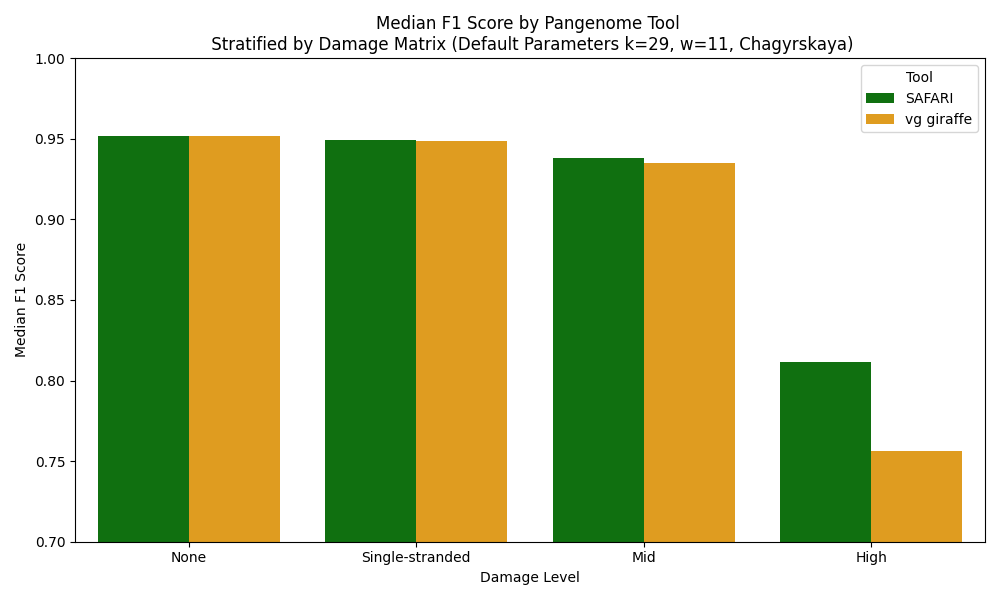
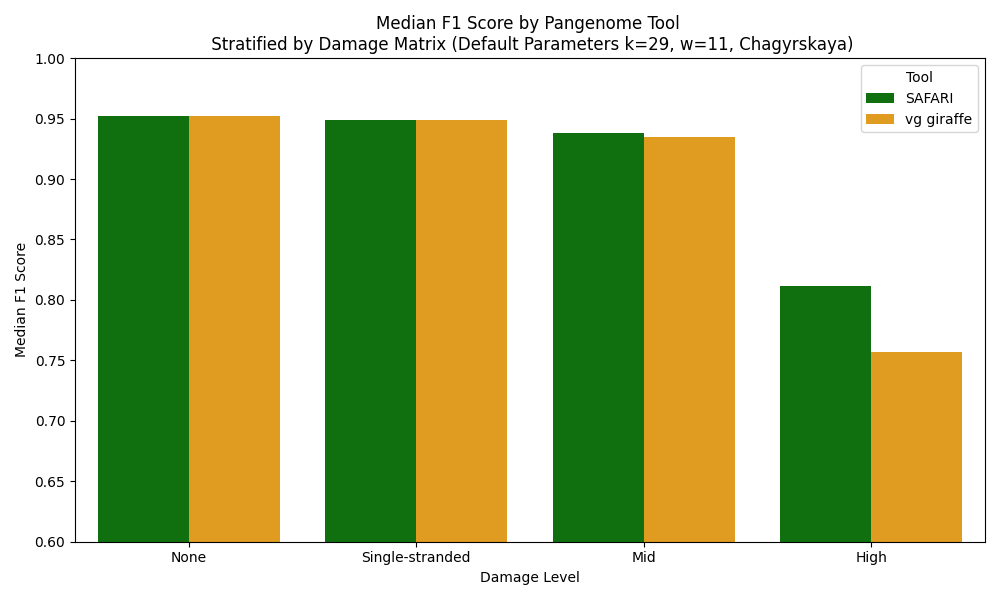
Update

diff --git a/linear_experiment/human_mito/stat_results/plot_F1_default_pangenome.py b/linear_experiment/human_mito/stat_results/plot_F1_default_pangenome.py
@@ -20,6 +20,7 @@ def main():
 
     # Sort the DataFrame by the 'damage_level' to ensure the plot follows the custom order
     median_f1_scores.sort_values('damage_level', inplace=True)
+    print(median_f1_scores)
 
     # Correcting the case sensitivity issue for the palette
     corrected_palette = {'vg giraffe': 'orange', 'SAFARI': 'green'}  # Ensure correct case for consistency
@@ -31,7 +32,7 @@ def main():
     plt.xlabel('Damage Level')
     plt.ylabel('Median F1 Score')
     plt.legend(title='Tool')
-    plt.ylim(0.7, 1)  # Restrict y-axis to start at 0.7
+    plt.ylim(0.6, 1)  # Restrict y-axis to start at 0.7
     plt.tight_layout()
 
     plt.savefig(sys.argv[2])
